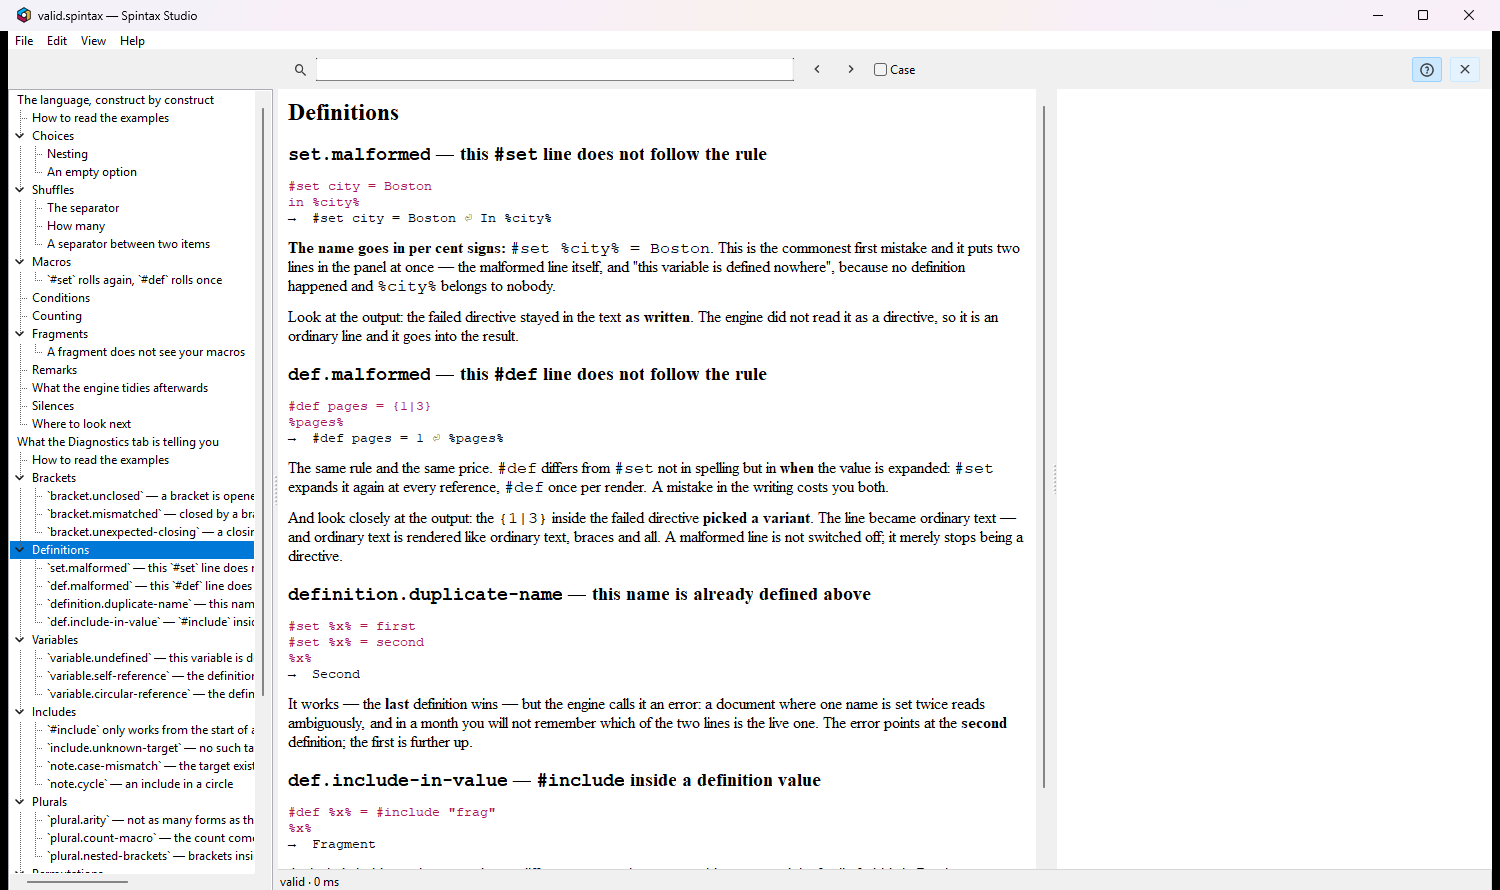
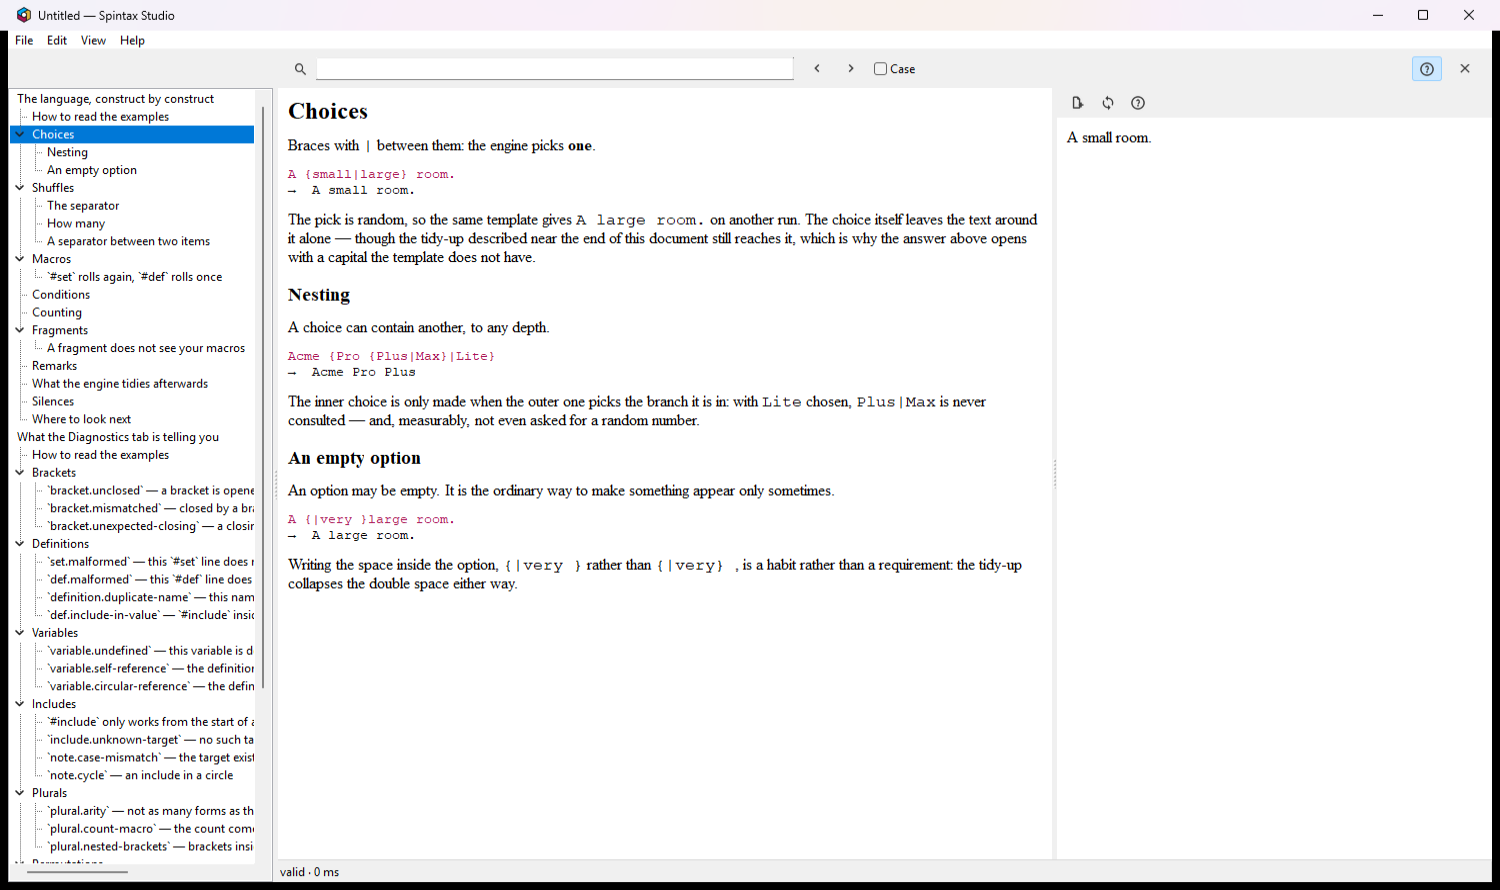
Replace Store screenshots with functional states

diff --git a/docs/store-listing.md b/docs/store-listing.md
@@ -30,13 +30,19 @@ The application does not include generative AI in this release.
 ## Captured screenshots
 
 Captured from the English release executable at 1500x890, with no personal documents or
-account information visible:
+account information visible. Five frames are light and five are dark so the listing shows
+the editor in both supported themes:
 
-1. [`assets/store/spintax-01-valid.png`](../assets/store/spintax-01-valid.png) — valid template and live page preview.
-2. [`assets/store/spintax-02-error.png`](../assets/store/spintax-02-error.png) — invalid template with the marked source location and diagnostic message.
-3. [`assets/store/spintax-03-variables.png`](../assets/store/spintax-03-variables.png) — definitions and rendered result.
-4. [`assets/store/spintax-04-variants.png`](../assets/store/spintax-04-variants.png) — generated variants with export controls.
-5. [`assets/store/spintax-05-help.png`](../assets/store/spintax-05-help.png) — built-in help open on a diagnostic article.
+1. [`assets/store/spintax-01-diagnostics.png`](../assets/store/spintax-01-diagnostics.png) - a real syntax error with source position and engine diagnostic.
+2. [`assets/store/spintax-02-variables.png`](../assets/store/spintax-02-variables.png) - document definitions, session values and the Includes teaching link.
+3. [`assets/store/spintax-03-variants.png`](../assets/store/spintax-03-variants.png) - 20 generated variants with seed and export actions.
+4. [`assets/store/spintax-04-group.png`](../assets/store/spintax-04-group.png) - the group editor opened from the tool rail beside the caret.
+5. [`assets/store/spintax-05-help.png`](../assets/store/spintax-05-help.png) - a valid help example selected in the Choices article and rendered on the right.
+6. [`assets/store/spintax-06-dark-workspace.png`](../assets/store/spintax-06-dark-workspace.png) - the live editor and preview in the dark theme.
+7. [`assets/store/spintax-07-dark-variables.png`](../assets/store/spintax-07-dark-variables.png) - variables panel in the dark theme.
+8. [`assets/store/spintax-08-dark-variants.png`](../assets/store/spintax-08-dark-variants.png) - generated variants and export actions in the dark theme.
+9. [`assets/store/spintax-09-dark-group.png`](../assets/store/spintax-09-dark-group.png) - editable group alternatives in the dark theme.
+10. [`assets/store/spintax-10-dark-help.png`](../assets/store/spintax-10-dark-help.png) - the help topic tree and a rendered example while the editor is dark.
 
 Use the final Store logo assets supplied by the brand rather than a screenshot of the editor
 icon. Do not advertise AI, cloud models, telemetry, or an online service in the R0 listing.
